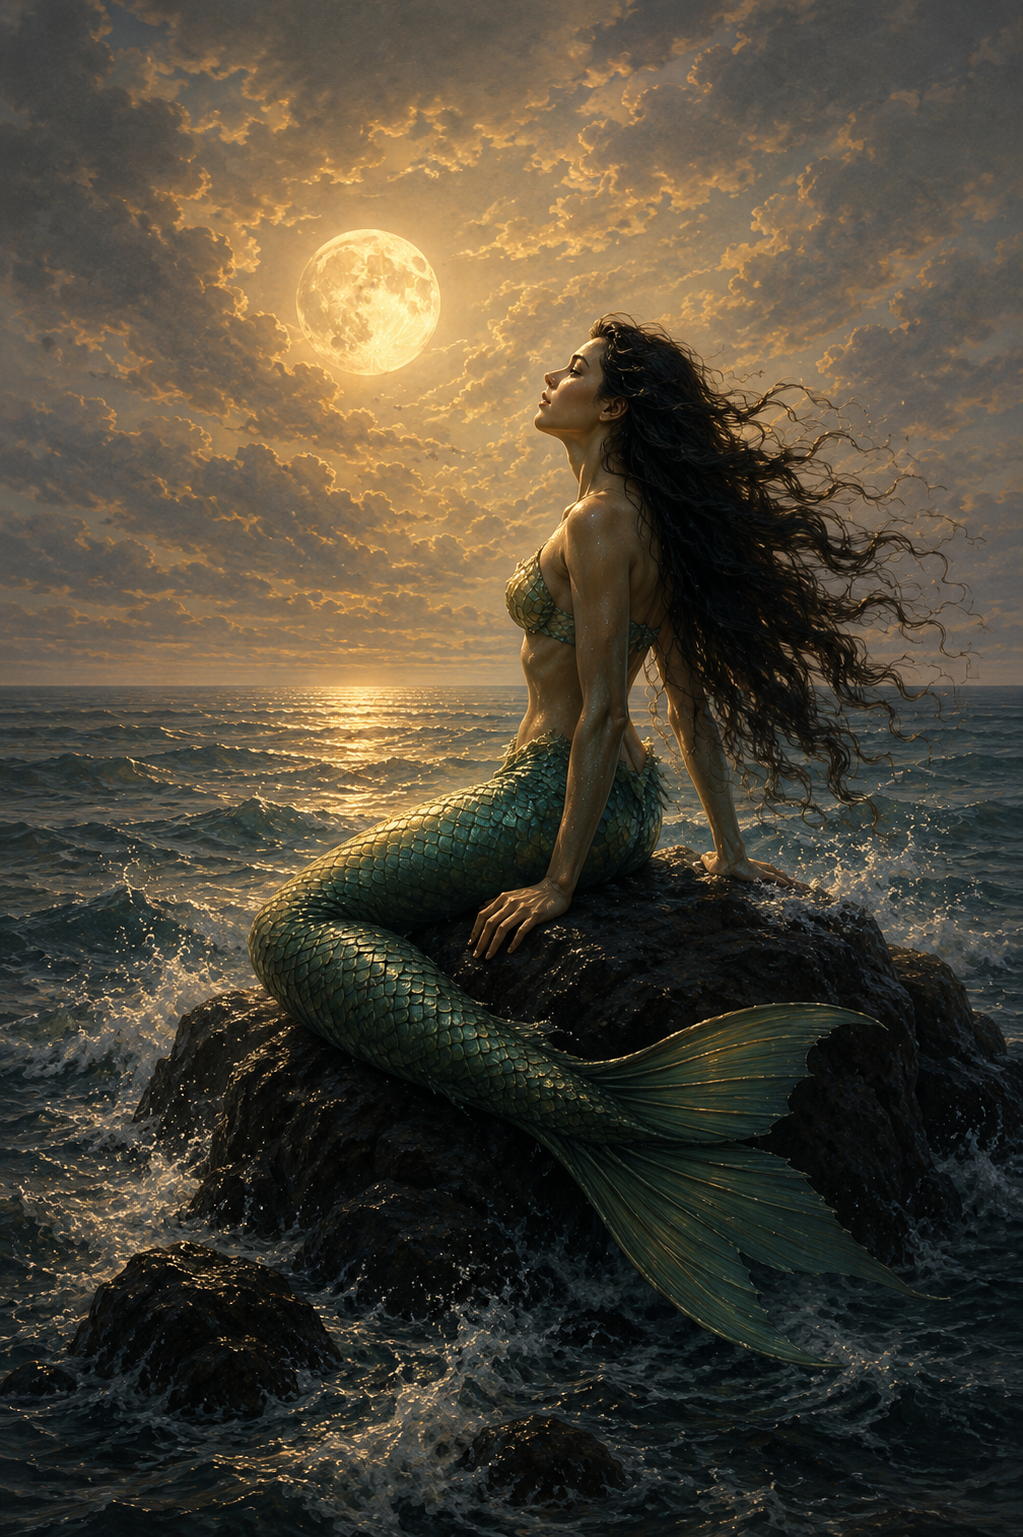
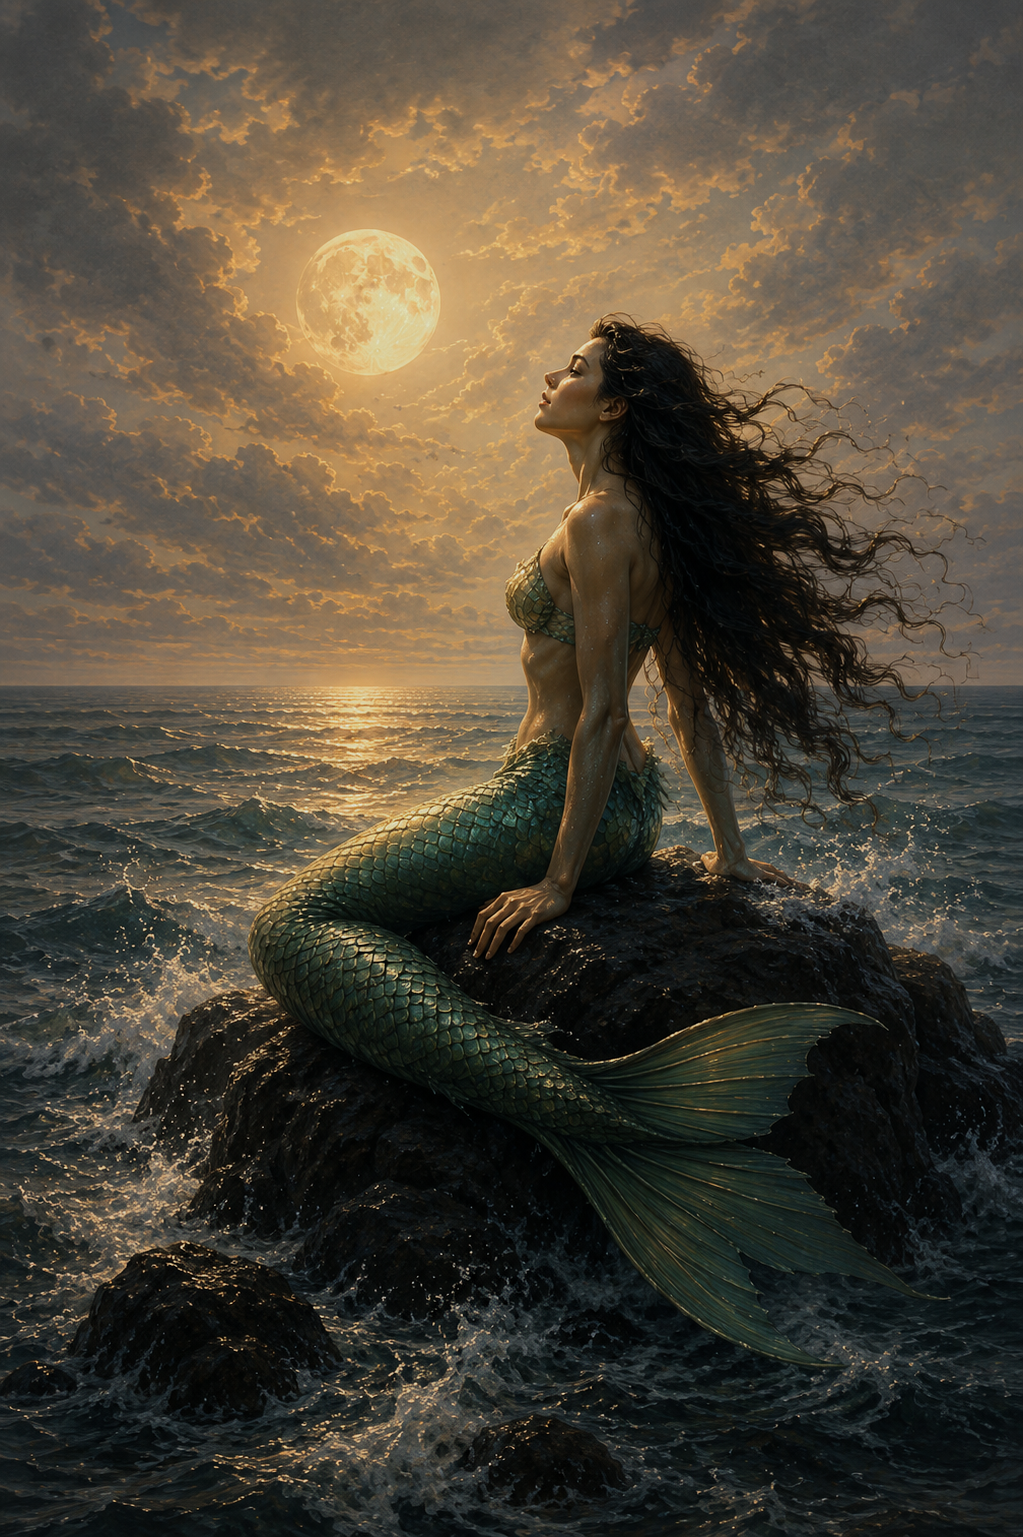
Homepage softening: move Foundation to section #2, mute gold highlights
Per Susan's "the homepage has become a little harsh" note:

- Matthew 13:34 (Foundation) moves from closing the page to section #2,
  directly beneath the Hero. It's now its own full-bleed section
  (.poems-showcase-foundation) rather than a div sharing background and
  padding with the Queen Ann Encounter. The Queen Ann Encounter section
  reverts its bottom padding from the old Foundation-specific fixed
  override back to the standard --band-gap token now that it ends the
  section on its own. Homepage order is now: Hero -> Foundation ->
  Collection -> A Path of Recognition -> Queen Ann Introduction -> Queen
  Ann Encounter -> Wayfinding Band -> Footer. Copy, imagery, and the
  /foundation CTA are unchanged.

- The five images in "A Path of Recognition" (public/images/recognition/
  Recognition_Path_0{1,3,4,5}.png, Recognition_Pathi_02.png) have their
  gold/yellow saturation and highlight intensity reduced ~13%, targeted
  specifically at the gold/yellow hue band (~30-70 degrees) and the
  brightest highlight zones (sun/moon cores), tapering with distance.
  Hue is untouched throughout, so there's no drift toward gray or brown;
  non-gold tones (teal water, dark rock, deep sky) are essentially
  unaffected. Global mean brightness shifts only 1-4% and mean
  saturation 2-5%, so the images read as softer, not darker or duller --
  they settle into the page instead of visually popping off it.

diff --git a/src/app/page.tsx b/src/app/page.tsx
@@ -31,25 +31,39 @@ export const metadata: Metadata = {
  *                     the former competing "Explore the Collection"
  *                     doorway is removed now that Collection has its
  *                     own clear invitation immediately below.
- *   2. Discovery   — The Collection. Navy architectural framework,
+ *   2. Foundation  — Matthew 13:34, the quiet theological threshold,
+ *                     resolving into an invitation to /foundation
+ *                     rather than a closed statement.
+ *   3. Discovery   — The Collection. Navy architectural framework,
  *                     cream type, the complete uncropped cover.
  *                     Introduces the Figure Editions as the central
  *                     published body of work; the broader explanation
  *                     of companion works and the growing library
  *                     lives on /collection itself, not here.
- *   3. Understanding — The AwakenArts Method. Answers the question
+ *   4. Understanding — The AwakenArts Method. Answers the question
  *                     Discovery naturally raises ("what is happening
  *                     here?"). Deliberately quiet — a thoughtful
  *                     pause, not a second headline moment — and
  *                     written as an introduction to a future
  *                     standalone Method page, not a full explanation.
- *   4. Embodiment  — Queen Ann Introduction & Encounter. Still + poem
+ *   5. Embodiment  — Queen Ann Introduction & Encounter. Still + poem
  *                     as one literary spread, the Method made visible
  *                     in an actual work.
- *   5. Foundation  — Matthew 13:34, the quiet theological threshold,
- *                     resolving into an invitation to /foundation
- *                     rather than a closed statement.
  *   6. Footer
+ *
+ * 2026-07-29, per Susan's "Homepage Softening" directive: Foundation
+ * (Matthew 13:34) moves from closing the page to section #2, directly
+ * beneath the Hero — "the homepage has become a little harsh," and
+ * opening onto Scripture and a quiet threshold image right after the
+ * Hero softens that flow before the Collection's more architectural
+ * navy band arrives. Foundation is no longer nested inside the same
+ * section as the Queen Ann Encounter — it's now its own full-bleed
+ * section (see .poems-showcase-foundation in globals.css, which
+ * carries its own background + padding rather than inheriting them
+ * from .poems-showcase-section). The Queen Ann Encounter keeps its
+ * place late in the page, now standing alone in what remains of
+ * .poems-showcase-section. Copy, imagery, and the /foundation CTA are
+ * otherwise unchanged.
  *
  * This supersedes the previous six-movement ordering (2026-06-28
  * Final Editorial Refinement), which placed Collection first but had
@@ -67,7 +81,8 @@ export const metadata: Metadata = {
  * the Christian foundation it is offered from, and where to continue
  * — without further explanation. /foundation answers the question
  * Matthew 13:34 naturally raises; the homepage now invites that next
- * step instead of closing the thought itself.
+ * step instead of closing the thought itself — and, as of 2026-07-29,
+ * invites it early rather than only at the close.
  */
 
 export default function HomePage() {
@@ -296,6 +311,42 @@ export default function HomePage() {
 
       </section>
 
+      {/* ── FOUNDATION — Matthew 13:34 ───────────────────────────
+          2026-07-29, per Susan's "Homepage Softening" directive: this
+          used to close the page, nested inside .poems-showcase-section
+          alongside the Queen Ann Encounter (see that section further
+          down, now Queen Ann Encounter only). Moved here as section
+          #2 — directly beneath the Hero — to soften the homepage's
+          opening flow: Scripture and a quiet threshold image now
+          greet the visitor right after the Hero, before the more
+          architectural navy Collection band. Now its own full-bleed
+          section rather than a div sharing .poems-showcase-section's
+          background/padding — see .poems-showcase-foundation in
+          globals.css, which carries its own Warm ivory background and
+          top/bottom padding standing alone. Copy, imagery, and the
+          /foundation CTA are unchanged. */}
+      <section className="poems-showcase-foundation" aria-label="Foundation">
+        <AtmosphericHeader
+          src="/images/headers/biblical-foundation.jpg"
+          alt="Sunrise over hills and a winding river, seen through a worn stone window — a threshold image."
+          tall
+          fadeTo="#FAF7F2"
+          fadeHeight={25}
+        />
+        <div className="poems-showcase-foundation__inner">
+          <p className="hero-quote-text">
+            He did not say anything to them without using a parable.
+          </p>
+          <p className="hero-quote-cite">Matthew 13:34</p>
+          <p className="hero-quote-body">
+            AwakenArts works within that same tradition.
+          </p>
+          <Link href="/foundation" className="hero-quote-closing">
+            Read the Foundation of AwakenArts <span aria-hidden="true">→</span>
+          </Link>
+        </div>
+      </section>
+
       {/* ── THE COLLECTION ───────────────────────────────────────
           Stage 2, Discovery — immediately after the Hero. Presented on
           a navy field per the Homepage Reformation Directive: the
@@ -433,14 +484,9 @@ export default function HomePage() {
         </div>
       </section>
 
-      {/* ── QUEEN ANN ENCOUNTER & FOUNDATION ───────────────────────
-          A flat cream field carrying two quiet movements, encountered
-          rather than explained:
-            1. Queen Ann Encounter — the portrait still and the poem
-               as facing pages of one open book, equal partners.
-            2. Matthew 13:34 (the foundation, placed last, quiet) —
-               the encounter resolves directly into it; no replacement
-               band or divider between them.
+      {/* ── QUEEN ANN ENCOUNTER ─────────────────────────────────────
+          A flat cream field: the portrait still and the poem as
+          facing pages of one open book, equal partners.
           Revised per Susan's June 2026 review: the navy stage and
           rounded bottom corners that used to wrap the title page (see
           .poems-showcase-intro above, since split into its own
@@ -448,11 +494,20 @@ export default function HomePage() {
           "card" rather than a publication, so both were removed —
           this field begins directly where the Introduction band above
           it ends. See the POEMS / EDITIONS SHOWCASE block in
-          globals.css. */}
+          globals.css.
+          2026-07-29, per Susan's "Homepage Softening" directive: this
+          section used to close with Matthew 13:34 nested inside it —
+          that block has moved up to its own section #2, directly
+          under the Hero (see FOUNDATION above). This section now ends
+          with the Encounter itself; its own padding-bottom reverts
+          from the Matthew-specific fixed override to the standard
+          shared --band-gap token, since it no longer needs to supply
+          a Foundation-specific closing gap — see .poems-showcase-
+          section in globals.css. */}
       <section className="poems-showcase-section" aria-label="Queen Ann Encounter">
         <div className="poems-showcase-inner">
 
-          {/* 2. Queen Ann Encounter — the poem and the portrait still
+          {/* Queen Ann Encounter — the poem and the portrait still
               as facing pages of one open book: equal height, equal
               importance, identical top alignment, no captions.
               The imagery now performs the work previously done by
@@ -528,69 +583,6 @@ export default function HomePage() {
             </a>
           </p>
 
-        </div>
-
-        {/* 3. Matthew 13:34 — the foundation. Placed last, quiet and
-            secondary: the theological/literary grounding after the
-            viewer has already encountered the image and poem. The
-            encounter resolves directly into it — no transitional
-            band between them. */}
-        <div className="poems-showcase-foundation">
-          <AtmosphericHeader
-            src="/images/headers/biblical-foundation.jpg"
-            alt="Sunrise over hills and a winding river, seen through a worn stone window — a threshold image."
-            tall
-            /* 2026-07-14, AwakenArts Atmosphere System: briefly given
-               its own Soft Light background, then reverted the same
-               day per Susan -- "do not add a color band between the
-               queen ann section and the matthew quote section." This
-               section inherits .poems-showcase-section's Warm ivory
-               (var(--cream), #FAF7F2) again; fadeTo updated to match
-               that exactly (was #f5f0e8, a slightly-off placeholder
-               predating this token) so the image still fades with no
-               visible seam. */
-            fadeTo="#FAF7F2"
-            fadeHeight={25}
-          />
-          <div className="poems-showcase-foundation__inner">
-            <p className="hero-quote-text">
-              He did not say anything to them without using a parable.
-            </p>
-            <p className="hero-quote-cite">Matthew 13:34</p>
-            {/* 2026-07-10, per Susan's directive: the homepage close is
-                trimmed to threshold image + Scripture + one short bridge
-                line + a CTA to /foundation. The longer explanatory
-                paragraph that used to sit here ("AwakenArts works within
-                that same enduring tradition — bringing image and poem
-                together as symbolic forms that invite recognition
-                through attentive engagement, not explanation.") and the
-                "Christ is the center. Scripture is the authority." credo
-                line below it are removed from the homepage — both ideas
-                already live in full on /foundation (see
-                src/app/foundation/page.tsx), which is exactly where
-                Susan wants the complete statement read, without
-                interrupting the homepage's flow.
-
-                2026-07-10 "Foundation Section Refinement," per Susan:
-                copy unchanged, but .hero-quote-text/.hero-quote-cite/
-                .hero-quote-body/.hero-quote-closing were retyped and
-                respaced in globals.css so Scripture, citation, and
-                this bridge line read as one closing meditation —
-                Scripture -> Reflection -> Invitation — rather than
-                three stacked blocks. See globals.css for the full
-                rationale on each rule. */}
-            <p className="hero-quote-body">
-              AwakenArts works within that same tradition.
-            </p>
-            {/* 2026-06-28 Final Editorial Refinement: the former closed
-                statement ("Symbolic language invites recognition before
-                explanation.") is replaced with an invitation forward —
-                continuity, not promotion. This is the homepage's one
-                quiet point of departure toward /foundation. */}
-            <Link href="/foundation" className="hero-quote-closing">
-              Read the Foundation of AwakenArts <span aria-hidden="true">→</span>
-            </Link>
-          </div>
         </div>
       </section>
 

diff --git a/src/app/globals.css b/src/app/globals.css
@@ -4707,17 +4707,22 @@ form { display: flex; flex-direction: column; gap: 1rem; }
 /* ─────────────────────────────────────────────
    HOMEPAGE — QUEEN ANN: INTRODUCTION & ENCOUNTER
    Single integrated cream panel. Revised 2026-06-26 per the
-   Homepage Reformation Directive — three quiet movements, the
-   encounter resolving directly into the reflection with no
-   transitional band between them —
+   Homepage Reformation Directive — two quiet movements, the title
+   page resolving directly into the encounter with no transitional
+   band between them —
    1. Queen Ann Introduction — a title page: name + a single short
       quotation from the poem, creating anticipation rather than
       explanation
    2. Queen Ann Encounter — still and poem as a literary spread:
       matching proportion and frame so the two are equal visual
       partners, facing pages of one open book
-   3. Matthew 13:34 (the literary foundation, placed last, quiet —
-      the former transition section has been removed entirely)
+
+   2026-07-29, per Susan's "Homepage Softening" directive: Matthew
+   13:34 (the literary foundation) no longer closes this panel — it
+   moved to its own full-bleed section, #2 on the page, directly
+   beneath the Hero. See .poems-showcase-foundation further below,
+   now a standalone <section> with its own background + padding
+   rather than a div inheriting both from this block.
 ───────────────────────────────────────────── */
 
 /* Flat cream field — no navy "stage," no rounded card wrapping the
@@ -4737,21 +4742,21 @@ form { display: flex; flex-direction: column; gap: 1rem; }
      band above provides its own preceding padding and a hard navy ->
      cream color cut — this field no longer needs to manufacture extra
      top breathing room on its own; the cut itself reads as the
-     deliberate beat. Bottom padding (--band-gap) unchanged.
-     2026-07-14, AwakenArts Atmosphere System: briefly split this
-     section's Foundation half onto its own Soft Light (pale
-     parchment) background, then reverted the same day per Susan —
-     "do not add a color band between the queen ann section and the
-     matthew quote section." Queen Ann Encounter and the Matthew 13:34
-     close stay one unbroken Warm ivory field, as before.
+     deliberate beat.
      2026-07-14 "Matthew Quote Section — Structural Spacing Fix," per
-     Susan: bottom padding overridden from var(--band-gap) (108px) to a
-     fixed 96px, inside her explicit 88-104px range for "Foundation
-     link to bottom of quotation section." This is a deliberate,
-     Susan-directed exception scoped to this one selector only — the
-     shared --band-gap token itself is untouched and still governs
-     every other page's content-end -> Wayfinding Band gap. */
-  padding: 5rem 0 96px;
+     Susan: bottom padding was overridden from var(--band-gap) to a
+     fixed 96px, tuned specifically for "Foundation link to bottom of
+     quotation section" — at the time, that Matthew 13:34 block was
+     this section's own closing content.
+     2026-07-29, per Susan's "Homepage Softening" directive: Matthew
+     13:34 has moved out of this section entirely (see .poems-
+     showcase-foundation, now its own section elsewhere on the page),
+     so the Foundation-specific exception no longer applies here — this
+     field now ends with the Queen Ann Encounter itself, the same kind
+     of content-end -> Wayfinding Band gap every other section uses.
+     Reverted to the standard var(--band-gap) token accordingly
+     (96px — numerically unchanged, since --band-gap is itself 6rem). */
+  padding: 5rem 0 var(--band-gap);
 }
 
 .poems-showcase-inner {
@@ -5067,26 +5072,38 @@ form { display: flex; flex-direction: column; gap: 1rem; }
 .poems-showcase-foundation {
   /* 2026-07-14, AwakenArts Atmosphere System: briefly given its own
      Soft Light (pale parchment) background to distinguish it from the
-     Queen Ann Encounter above, then reverted the same day per Susan —
-     "do not add a color band between the queen ann section and the
-     matthew quote section." No background of its own; inherits the
-     parent .poems-showcase-section's Warm ivory, unbroken. */
+     Queen Ann Encounter, then reverted the same day per Susan — "do
+     not add a color band between the queen ann section and the
+     matthew quote section." At the time this was a div nested inside
+     .poems-showcase-section, so "no background of its own" meant it
+     simply inherited that parent's Warm ivory.
+     2026-07-29, per Susan's "Homepage Softening" directive: this is
+     now its own full-bleed <section>, positioned directly beneath the
+     Hero (page section #2), no longer nested inside .poems-showcase-
+     section — so it needs to carry that same Warm ivory itself rather
+     than inherit it. Set explicitly here; the reasoning above (one
+     unbroken cream field, no separate color band) still holds, it's
+     just sourced locally now instead of via a parent. */
+  background: var(--cream);
   /* NOTE this padding-top sits ABOVE the AtmosphericHeader image below
-     (the image is this div's first child) — it's the gap between the
-     Queen Ann encounter above and the start of the image, NOT the gap
-     between the image's fade and the quotation text. It was mislabeled
-     as the "image/fade to quotation" gap through two earlier passes
-     (2026-07-14) before Susan caught the error at actual size — see
-     .hero-quote-text's own margin-top for the real fade-to-quotation
-     gap, which is a separate value on a different element entirely.
-     This padding-top's own value (80px) is otherwise untouched by that
-     correction; it was never the thing she was asking to change.
-     A supplemental padding-bottom that used to live here (for the
-     trailing gap) was removed 2026-07-14 — that gap is now supplied
-     solely by .poems-showcase-section's own padding-bottom (overridden
-     there to a fixed 96px; see that rule for why --band-gap itself
-     isn't used directly). Responsive tiers below. */
-  padding-top: 80px;
+     (the image is this section's first child). Originally the gap
+     between the Queen Ann encounter above and the start of the image;
+     now that this section sits directly under the Hero instead, it
+     reads as the gap between the Hero and the threshold image —
+     same role (breathing room before the image begins), same value
+     (80px), just a different neighbor above it. See .hero-quote-text's
+     own margin-top for the separate fade-to-quotation gap, unaffected
+     by this value.
+     Padding-bottom is new as of 2026-07-29: this section used to rely
+     entirely on its parent .poems-showcase-section for the trailing
+     gap (a fixed 96px override, tuned for "Foundation link to bottom
+     of quotation section"). Now that Foundation is a standalone
+     section — the very next thing after it is the Collection band —
+     it needs its own closing gap, so it takes the same numeric value
+     back as the standard var(--band-gap) token (96px), which is what
+     every other section on the page uses for its own content-end gap.
+     Responsive tiers below. */
+  padding: 80px 0 var(--band-gap);
 }
 .poems-showcase-foundation__inner {
   /* 2026-06-29: widened from 820px — this was the real bottleneck
@@ -5102,17 +5119,18 @@ form { display: flex; flex-direction: column; gap: 1rem; }
 }
 
 @media (max-width: 1024px) {
-  /* 2026-07-14 "Matthew Quote Section — Structural Spacing Fix": the
-     Foundation section's own bottom padding is overridden here too
-     (96px -> 80px), same fixed-value exception as the desktop rule
-     above — proportional to it, not derived from --band-gap-md, since
-     this section no longer uses the shared token at all. Every other
-     section on the page still uses var(--band-gap-md) as normal. */
-  .poems-showcase-section { padding: 4rem 0 80px; }
+  /* 2026-07-29: both sections below reverted to the standard
+     var(--band-gap-md) token for their bottom padding, now that
+     Matthew 13:34 (Foundation) is its own standalone section rather
+     than the closing content of .poems-showcase-section — see the
+     desktop rules above for the full reasoning. Numerically identical
+     to the old fixed 80px override, since --band-gap-md is itself
+     5rem. */
+  .poems-showcase-section { padding: 4rem 0 var(--band-gap-md); }
   .poems-showcase-inner { padding: 0 1.75rem; }
   .poems-showcase-intro { padding: 4rem 1.75rem; }
-  /* ~80% of desktop values, tablet tier */
-  .poems-showcase-foundation { padding-top: 64px; }
+  /* ~80% of the desktop top value, tablet tier */
+  .poems-showcase-foundation { padding: 64px 0 var(--band-gap-md); }
   .poems-showcase-foundation__inner { padding: 0 1.75rem; }
   /* margin-top is the fade-to-quotation gap (new, added 2026-07-14
      actual-size correction); margin-bottom is the unrelated
@@ -5122,12 +5140,12 @@ form { display: flex; flex-direction: column; gap: 1rem; }
   .hero-quote-closing { margin-top: 42px; }
 }
 @media (max-width: 640px) {
-  .poems-showcase-section { padding: 3rem 0 64px; }
+  .poems-showcase-section { padding: 3rem 0 var(--band-gap-sm); }
   .poems-showcase-inner { padding: 0 1.25rem; }
-  /* ~65% of desktop values, mobile tier — keeps the four moments
+  /* ~65% of the desktop top value, mobile tier — keeps the moments
      legible and separated without making the section excessively tall
      on small screens. */
-  .poems-showcase-foundation { padding-top: 52px; }
+  .poems-showcase-foundation { padding: 52px 0 var(--band-gap-sm); }
   .poems-showcase-foundation__inner { padding: 0 1.25rem; }
   .poems-showcase-intro { padding: 3.5rem 1.25rem; }
   .hero-quote-text { margin-top: 36px; margin-bottom: 25px; }
